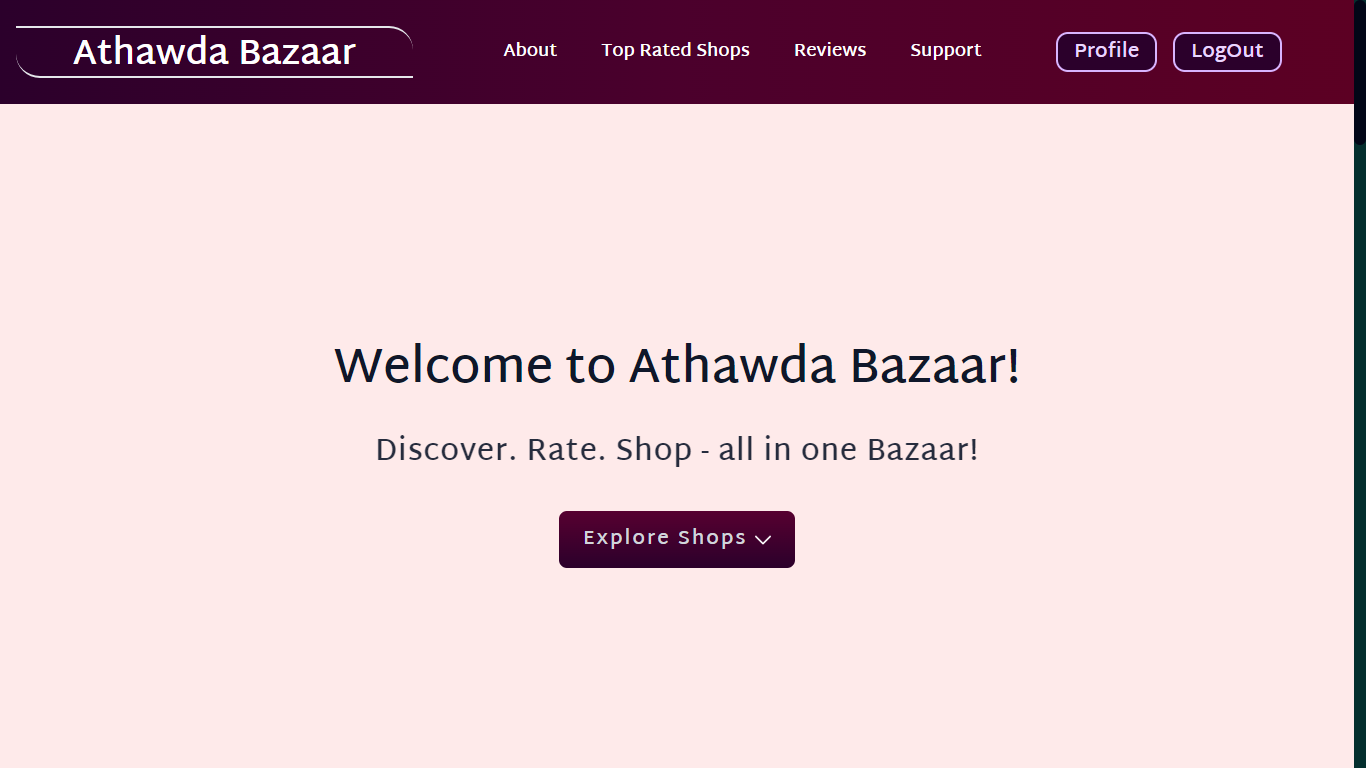
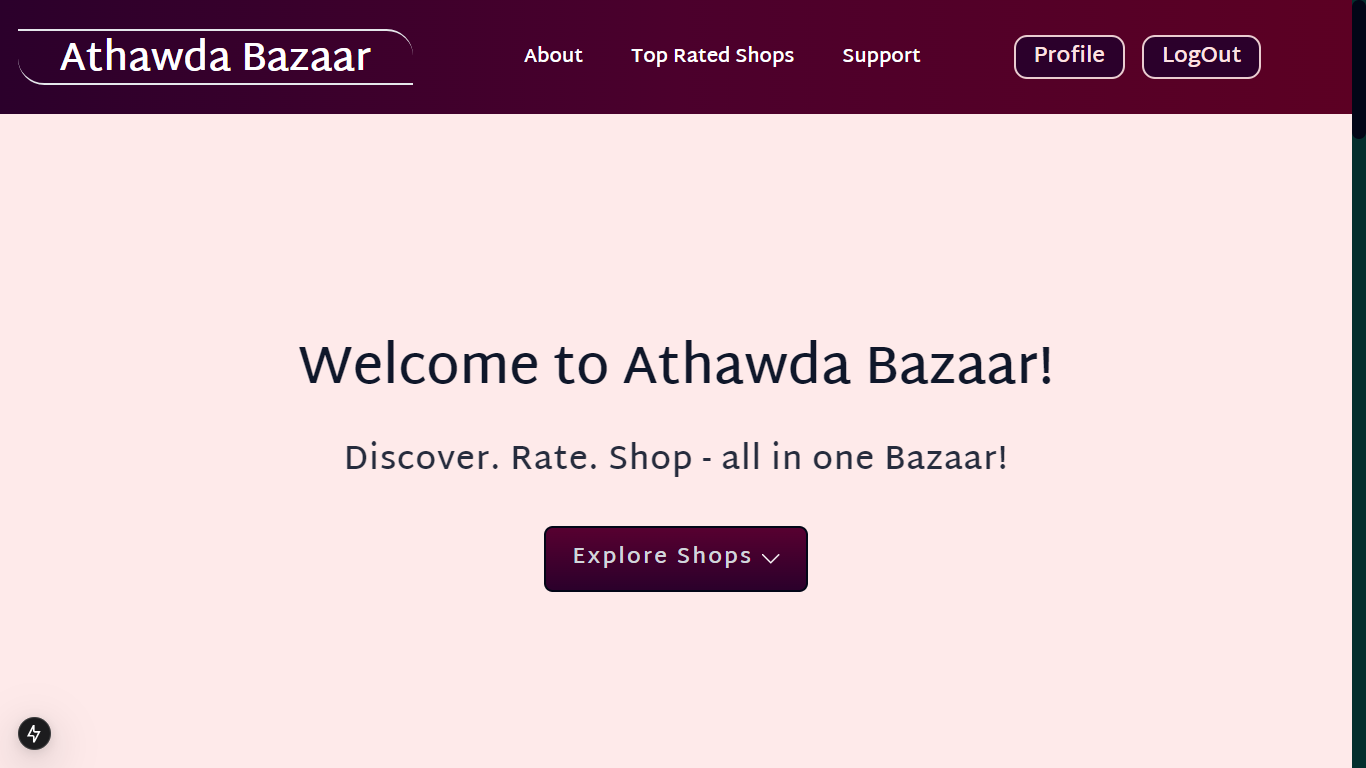
Exception Handling Implemented and Footer Modified

diff --git a/src/app/shops/page.tsx b/src/app/shops/page.tsx
@@ -8,30 +8,40 @@ export const metadata = {
 };
 
 export default async function Shop() {
-  await connectToDatabase();
+  let ShopsDetails;
+  try {
+    await connectToDatabase();
 
-  // Inserting / Creating Shop Details
-  // InsertShopDetails.map(async (item) => {
-  //   const isShopPresent = await Shops.findOne({ slug: item.slug });
-  //   if (!isShopPresent) {
-  //     const newShop = new Shops({
-  //       name: item.name,
-  //       category: item.category,
-  //       slug: item.slug,
-  //       imageURL: item.imageURL,
-  //       rating: item.rating,
-  //       products: item.products,
-  //     });
+    // Inserting / Creating Shop Details
+    // InsertShopDetails.map(async (item) => {
+    //   const isShopPresent = await Shops.findOne({ slug: item.slug });
+    //   if (!isShopPresent) {
+    //     const newShop = new Shops({
+    //       name: item.name,
+    //       category: item.category,
+    //       slug: item.slug,
+    //       imageURL: item.imageURL,
+    //       rating: item.rating,
+    //       products: item.products,
+    //     });
 
-  //     await newShop.save();
-  //   }
-  // });
+    //     await newShop.save();
+    //   }
+    // });
 
-  // Deleting Shop Details
-  //   await Shops.deleteMany({ slug: "shop4" });
-  //   await Shops.deleteOne({ slug: "shop4" });
+    // Deleting Shop Details
+    //   await Shops.deleteMany({ slug: "shop4" });
+    //   await Shops.deleteOne({ slug: "shop4" });
 
-  const ShopsDetails = await Shops.find().sort({ rating: -1 });
+    const ShopsDetailsTemp = await Shops.find().sort({ rating: -1 });
+    ShopsDetails = ShopsDetailsTemp;
+  } catch {
+    return (
+      <div className="flex justify-center py-20 text-2xl px-10 text-center">
+        Check your internet connection and try again!
+      </div>
+    );
+  }
 
   return (
     <>

diff --git a/src/app/shops/[id]/page.tsx b/src/app/shops/[id]/page.tsx
@@ -6,11 +6,21 @@ import Image from "next/image";
 
 // eslint-disable-next-line
 export default async function ShopProfile({ params }: any) {
-  await connectToDatabase();
   const slugParam = await params;
   const slugURL = slugParam.id;
 
-  const ShopDetails = await Shops.findOne({ slug: slugURL });
+  let ShopDetails;
+  try {
+    await connectToDatabase();
+    const ShopDetailsTemp = await Shops.findOne({ slug: slugURL });
+    ShopDetails = ShopDetailsTemp;
+  } catch {
+    return (
+      <div className="flex justify-center py-20 text-2xl px-10 text-center">
+        Check your internet connection and try again!
+      </div>
+    );
+  }
 
   if (!ShopDetails) {
     return <div className="text-center text-3xl py-20">Shop not found.</div>;
@@ -26,13 +36,15 @@ export default async function ShopProfile({ params }: any) {
             alt="Shop Banner"
             className="h-[50vh] w-[50vw] md:h-[40vh] md:w-[80vw] sm:h-[30vh] sm:w-[80vw] border-2 border-background-start rounded-xl"
           />
-          <div className="text-5xl sm:text-3xl p-4 sm:px-10 text-center">
+          <div className="text-5xl sm:text-3xl font-bold p-4 sm:px-10 text-center">
             {ShopDetails.name}
           </div>
           <div className="text-2xl sm:text-xl sm:px-10 space-y-5">
-            <p>{ShopDetails.category}</p>
+            <p className="normalButton text-white px-4 py-1 rounded-lg">
+              {ShopDetails.category}
+            </p>
             <p className="text-3xl sm:text-2xl">
-              Rating: {ShopDetails.rating} / 10
+              Rating : {ShopDetails.rating} / 10
             </p>
           </div>
         </section>

diff --git a/src/app/page.tsx b/src/app/page.tsx
@@ -10,8 +10,18 @@ export default async function Home() {
       <path d="M325.607,79.393c-5.857-5.857-15.355-5.858-21.213,0.001l-139.39,139.393L25.607,79.393 c-5.857-5.857-15.355-5.858-21.213,0.001c-5.858,5.858-5.858,15.355,0,21.213l150.004,150c2.813,2.813,6.628,4.393,10.606,4.393 s7.794-1.581,10.606-4.394l149.996-150C331.465,94.749,331.465,85.251,325.607,79.393z"></path>
     </svg>
   );
-  await connectToDatabase();
-  const ShopsDetails = await Shops.find();
+  let ShopsDetails;
+  try {
+    await connectToDatabase();
+    const ShopsDetailsTemp = await Shops.find();
+    ShopsDetails = ShopsDetailsTemp;
+  } catch {
+    return (
+      <div className="flex justify-center py-20 text-2xl px-10 text-center">
+        Check your internet connection and try again!
+      </div>
+    );
+  }
 
   return (
     <>
@@ -31,7 +41,7 @@ export default async function Home() {
           <Link
             href="#shops"
             aria-label="About Us"
-            className="normalButton flex items-center space-x-2 px-6 py-4 text-xl leading-tight tracking-widest text-gray-300 hover:text-gray-100 rounded-lg"
+            className="normalButton flex items-center space-x-2 px-6 py-4 text-xl leading-tight tracking-widest text-gray-300 hover:text-gray-100 rounded-lg border-2 border-slate-950"
           >
             <span>Explore Shops</span>
             <span>{downward}</span>

diff --git a/src/components/Footer.tsx b/src/components/Footer.tsx
@@ -19,13 +19,26 @@ export default function Footer() {
             <Link href="/" className="text-4xl sm:text-3xl">
               Athawda Bazaar
             </Link>
-            <div className="flex items-center space-x-4 justify-center">
-              Social Media
+            <div className="flex flex-col items-center pt-4 space-y-4 justify-center">
+              <div>
+                <p>Parle Tilak Vidyalaya Association&apos;s</p>
+                <Link
+                  href={"https://www.sathayecollege.edu.in"}
+                  className="text-xl font-bold"
+                >
+                  Sathaye College (Autonomous)
+                </Link>
+              </div>
+              <p className="w-72">
+                Dixit Road, Vile Parle (E), Mumbai 400057, Maharashtra, India.
+              </p>
             </div>
-            <div className="flex flex-col underline p-4">
-              <button>Terms & Conditons</button>
+            {/* <div className="flex flex-col underline p-4">
+              <Link href={"/about"} target="_blank">
+                Terms & Conditons
+              </Link>
               <button>Privacy Policy</button>
-            </div>
+            </div> */}
           </div>
           {/* Right Side */}
           <div className="flex sm:flex-wrap items-start justify-evenly sm:justify-between lg:w-[60%] md:w-[50%] sm:mt-10">

diff --git a/src/components/ShopCard.tsx b/src/components/ShopCard.tsx
@@ -30,7 +30,7 @@ export default function ShopCard({
             alt={title}
             className="h-full rounded-lg object-cover lg:w-[60vw] w-[80vw]"
           />
-          <div className="absolute bottom-0 left-1/2 -translate-x-1/2 text-5xl sm:text-2xl w-full text-center pt-3 sm:pt-1 gradientShopButton bg-opacity-50">
+          <div className="absolute bottom-0 left-1/2 -translate-x-1/2 text-5xl sm:text-2xl w-full text-center pt-3 sm:pt-1 gradientShopComponentEffect bg-opacity-50">
             {title}
           </div>
         </div>
@@ -40,6 +40,7 @@ export default function ShopCard({
           </div>
           <div className="text-center font-bold py-2">Rating: {rating}/10</div>
         </div>
+        <div className="px-4">Duration: 14 - 17 Nov</div>
         <div className="text-center pt-4">
           <Button text="View Details" url={`shops/${url}`} small={true} />
         </div>

diff --git a/src/constants/FooterDetails.tsx b/src/constants/FooterDetails.tsx
@@ -3,10 +3,10 @@ export const LearnColumn = [
     text: "About",
     url: "/about",
   },
-  {
-    text: "FAQ",
-    url: "/faq",
-  },
+  // {
+  //   text: "FAQ",
+  //   url: "/faq",
+  // },
 ];
 
 export const ExploreColumn = [
@@ -14,10 +14,10 @@ export const ExploreColumn = [
     text: "Top Rated Shops",
     url: "/shops",
   },
-  {
-    text: "Reviews",
-    url: "/reviews",
-  },
+  // {
+  //   text: "Reviews",
+  //   url: "/reviews",
+  // },
 ];
 
 export const ConnectColumn = [

diff --git a/src/lib/mongoDB.ts b/src/lib/mongoDB.ts
@@ -6,7 +6,9 @@ export const connectToDatabase = async () => {
       await mongoose.connect(process.env.MONGO_URL!);
       // console.log("Connection Successfull.");
     }
-  } catch (error) {
-    console.error("Error Connecting to Mongoose.", error);
+  } catch {
+    // } catch (error){
+    // console.error("Error Connecting to Mongoose.", error);
+    console.log("Connection UnSuccessfull.");
   }
 };

diff --git a/src/constants/NavbarDetails.tsx b/src/constants/NavbarDetails.tsx
@@ -7,10 +7,10 @@ export const NavElementDetails = [
     text: "Top Rated Shops",
     url: "/shops",
   },
-  {
-    text: "Reviews",
-    url: "/reviews",
-  },
+  // {
+  //   text: "Reviews",
+  //   url: "/reviews",
+  // },
   {
     text: "Support",
     url: "/support",

diff --git a/src/app/index.css b/src/app/index.css
@@ -45,6 +45,6 @@ html::-webkit-scrollbar {
   background: linear-gradient(to left, #5c0023, #4b002c, #2b002b);
 }
 
-.gradientShopButton {
+.gradientShopComponentEffect {
   background: linear-gradient(to bottom, #27272731, #18000e8c, #18000e);
 }
